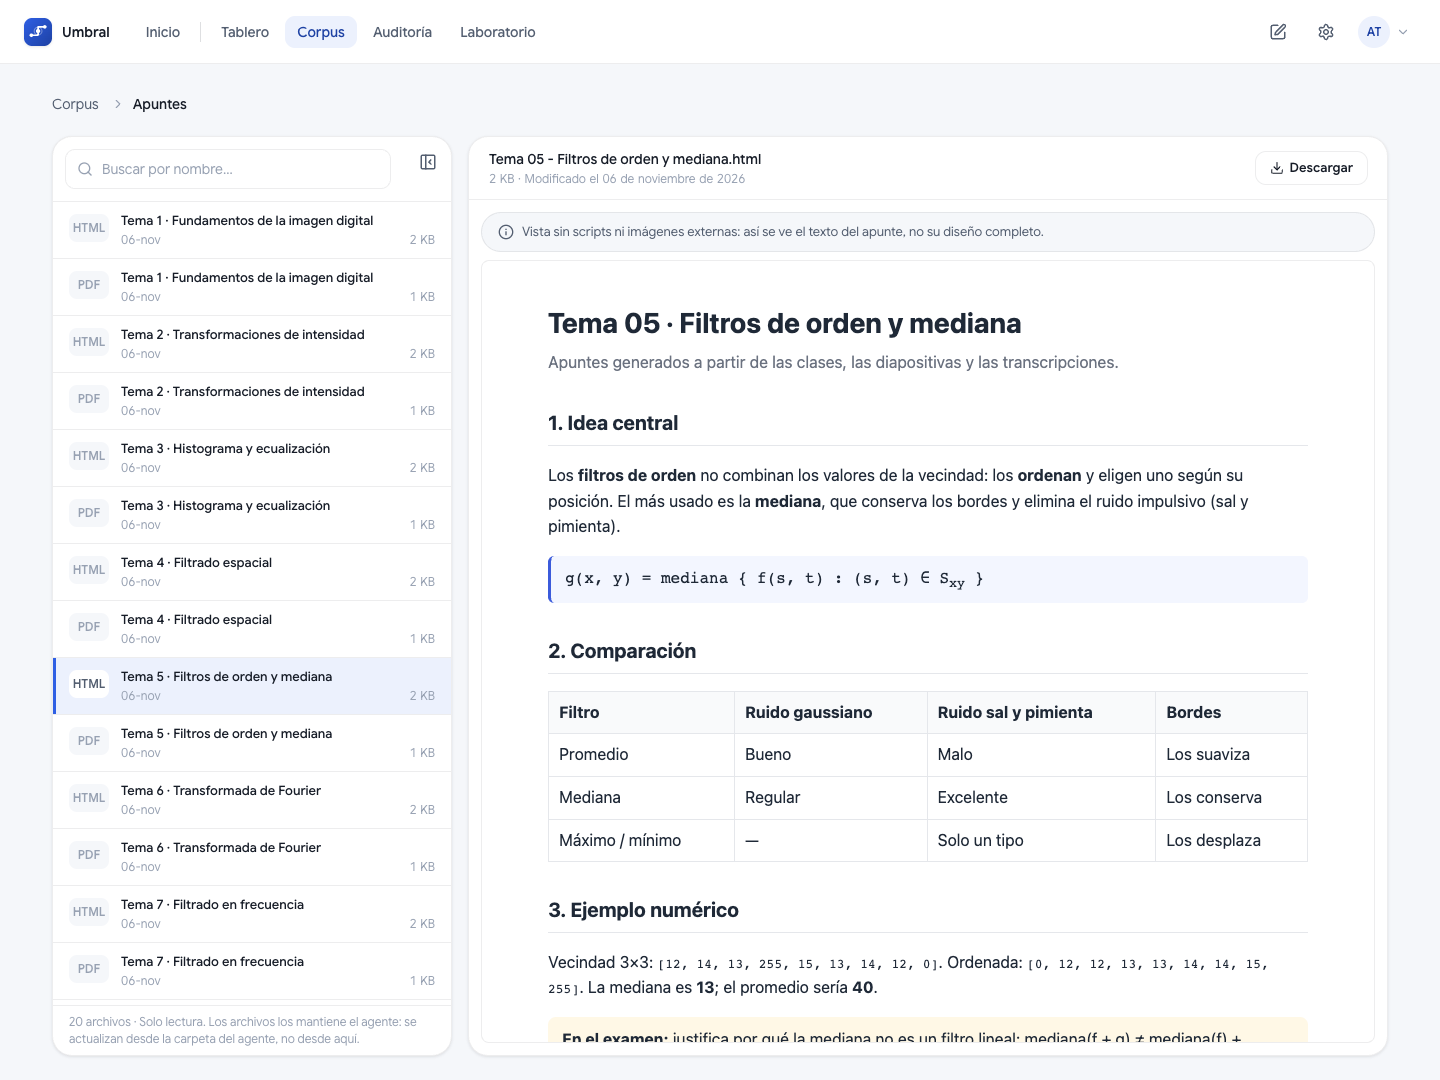
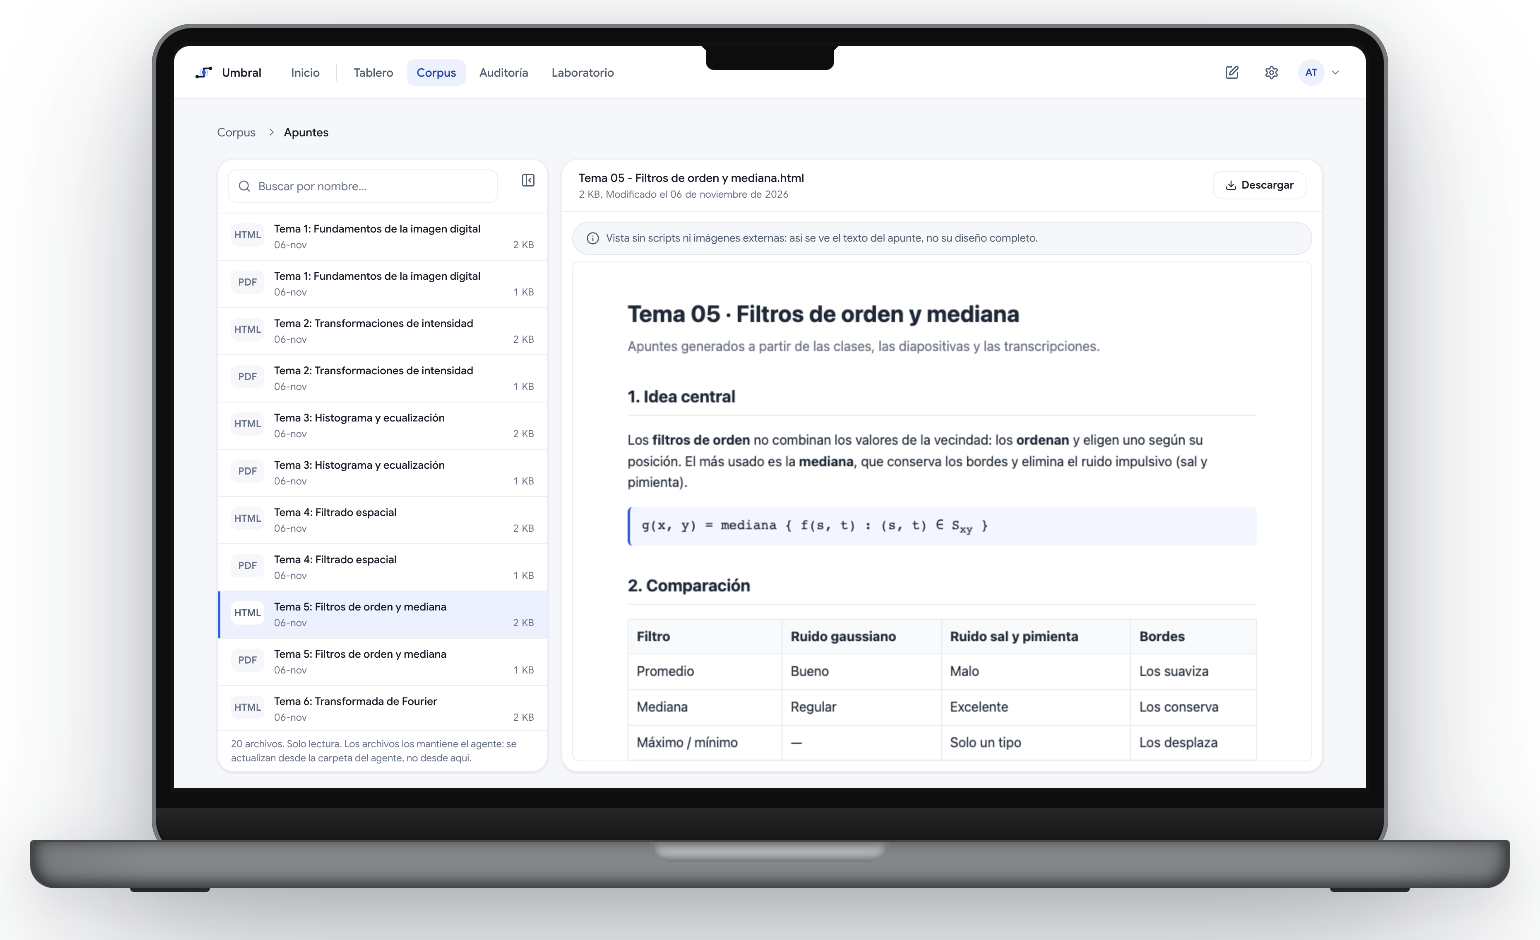
README con marcos de dispositivo y vista previa con el diseño nuevo
Capturas nuevas desde la instancia de demostración (cuentas y material
ficticios), a doble resolución, enmarcadas con devices.css de picturepan2
(MIT): el chat en MacBook Pro con el iPhone 14 Pro al frente como imagen
principal, y tablero, auditoría, corpus y acceso en la galería. Fondo
transparente para que se vean bien en el tema claro y el oscuro de GitHub.

La vista previa al compartir (og.png) también pasa al diseño nuevo (?v=3
para que las redes no sigan con la anterior).

Hoja de ruta: ejemplos interactivos en el chat (HTML generado por el agente
y renderizado en un iframe aislado, como los artefactos de Claude).

Claude-Session: https://claude.ai/code/session_013zWodJRKJa8hVf7LzjJGM9

diff --git a/frontend/index.html b/frontend/index.html
@@ -26,14 +26,14 @@
     <meta property="og:url" content="__URL_PUBLICA__/" />
     <meta property="og:title" content="Umbral · Asistente de estudio con IA" />
     <meta property="og:description" content="Pregúntale a tus clases: cada respuesta cita la clase, la diapositiva o el apunte de donde sale." />
-    <meta property="og:image" content="__URL_PUBLICA__/og.png?v=2" />
+    <meta property="og:image" content="__URL_PUBLICA__/og.png?v=3" />
     <meta property="og:image:width" content="1200" />
     <meta property="og:image:height" content="630" />
     <meta property="og:image:alt" content="Umbral: chat que responde citando la clase y la diapositiva" />
     <meta name="twitter:card" content="summary_large_image" />
     <meta name="twitter:title" content="Umbral · Asistente de estudio con IA" />
     <meta name="twitter:description" content="Pregúntale a tus clases: cada respuesta cita la clase, la diapositiva o el apunte de donde sale." />
-    <meta name="twitter:image" content="__URL_PUBLICA__/og.png?v=2" />
+    <meta name="twitter:image" content="__URL_PUBLICA__/og.png?v=3" />
   </head>
   <body>
     <div id="root"></div>

diff --git a/README.md b/README.md
@@ -20,9 +20,9 @@ Chat multiusuario con tareas que sobreviven a cerrar la página, gasto en vivo, 
 
 <br><br>
 
-<img src="docs/img/chat.png" width="900" alt="Chat de Umbral: respuesta con citas a la clase y a la página del PDF, y el apunte adjunto">
+<img src="docs/img/hero.png" width="920" alt="Umbral en una MacBook y un iPhone: respuesta con citas a la clase y a la página del PDF">
 
-<sub>El agente responde con citas clicables a la clase y a la página exacta de las diapositivas, y manda el apunte del tema.</sub>
+<sub>El agente responde con citas clicables a la clase y a la página exacta de las diapositivas, y manda el apunte del tema. En escritorio y en el celular, instalable como app.</sub>
 
 </div>
 
@@ -66,9 +66,9 @@ El primer agente que corre en Umbral es un asistente de estudio de
       <img src="docs/img/corpus.png" alt="Explorador del corpus">
       <p align="center"><b>Corpus</b><br><sub>El material del agente por colecciones: lo que el estudiante puede recibir y lo que solo el agente lee.</sub></p>
     </td>
-    <td width="50%" valign="top" align="center">
-      <img src="docs/img/movil.png" width="190" alt="Umbral en el celular">
-      <p align="center"><b>En el celular</b><br><sub>La misma app, adaptada a pantallas chicas.</sub></p>
+    <td width="50%" valign="top">
+      <img src="docs/img/acceso.png" alt="Inicio de sesión con la gráfica de la función umbral">
+      <p align="center"><b>Acceso</b><br><sub>La función umbral a escala real: reacciona a lo que escribes y, al entrar, el nodo cruza el umbral.</sub></p>
     </td>
   </tr>
 </table>
@@ -79,7 +79,7 @@ El primer agente que corre en Umbral es un asistente de estudio de
 <p align="center"><img src="docs/img/correo-verificacion.png" width="560" alt="Correo de verificación"></p>
 </details>
 
-<sub>Las capturas usan una instancia de demostración: cuentas y material ficticios.</sub>
+<sub>Las capturas usan una instancia de demostración (cuentas y material ficticios). Marcos de dispositivo con <a href="https://github.com/picturepan2/devices.css">devices.css</a> (MIT).</sub>
 
 ## Qué hace
 
@@ -90,6 +90,7 @@ El primer agente que corre en Umbral es un asistente de estudio de
 - **Citas de fuentes clicables**: el agente enlaza la clase, la página del PDF o el apunte de donde sale cada dato, con la frase resaltada.
 - Adjuntos de cualquier tipo (imágenes, PDF, texto, video como fotogramas) y archivos del curso que el agente puede mandar.
 - Historial sincronizado entre dispositivos; conversaciones fijadas, archivadas y no leídas.
+- **PWA instalable** (escritorio y celular) con animación de arranque; el service worker nunca sirve una versión vieja.
 
 **Para quien opera la plataforma**
 - **Registro self-service** con verificación por correo (Gmail + contraseña de aplicación, configurable desde la app).
@@ -248,6 +249,7 @@ umbral/
 
 ## Hoja de ruta
 
+- **Ejemplos interactivos en el chat**: que el agente pueda generar HTML (simulaciones, gráficas, un filtro aplicado sobre una imagen con controles) y que se renderice dentro de la conversación, como los artefactos de Claude, en un iframe aislado (`sandbox`) para que se pueda explorar sin riesgo.
 - Sesión en cookie `httpOnly` en lugar de `localStorage`.
 - Recuperación de contraseña.
 - Sandbox del sistema operativo para el modo Generador (Bash).
